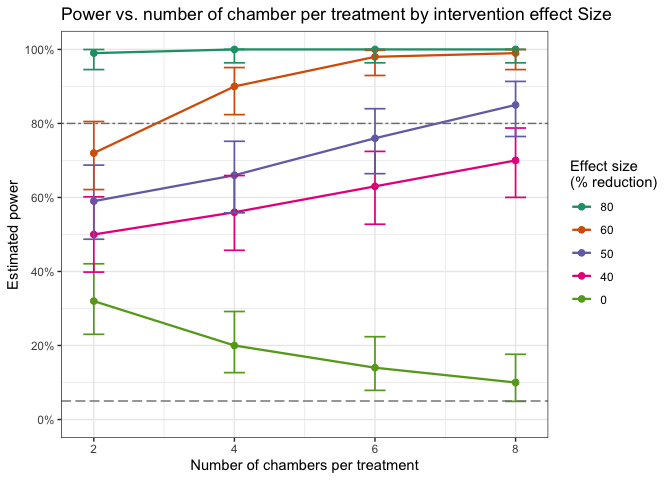
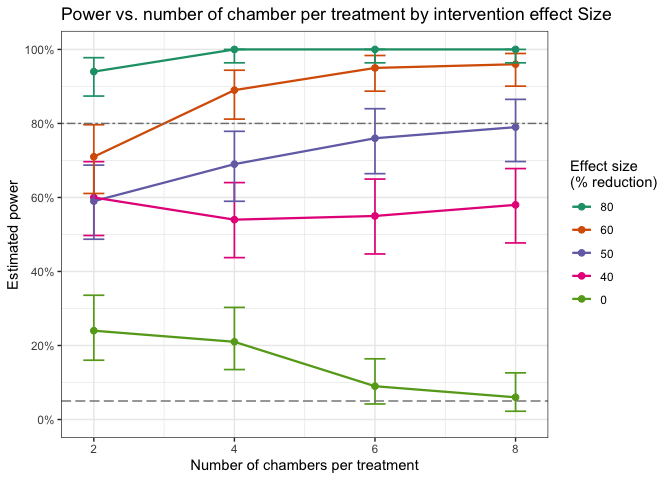
Updated README

diff --git a/README.md b/README.md
@@ -28,9 +28,9 @@ from [GitHub](https://github.com/) with:
     # First, install.packages("devtools") if not already installed in your RStudio
     # install.packages("devtools") # Run this manually if needed
     # Load "devtools" library before installing "powergene"
-    # library("remotes")
+    library("devtools")
     # Then, install the "powergene" package from github
-    remotes::install_github("akipingu/powergene")
+    devtools::install_github("akipingu/powergene")
 
     #Finally, load the "powergene" package library
     library("powergene")
@@ -114,14 +114,14 @@ chamber/replicate.
     sim.mosquitoes <- sim.mosquitoes[, c(-4,-5,-6)]
     sim.mosquitoes
     #>   replicates intvn chamber mosquito.count.fixed mosquito.count.random
-    #> 1          1     0     0-1                   43                    57
-    #> 2          2     0     0-2                   43                    80
-    #> 3          3     0     0-3                   64                    47
-    #> 4          4     0     0-4                   53                    38
-    #> 5          1     1     1-1                   12                    12
-    #> 6          2     1     1-2                   13                     8
-    #> 7          3     1     1-3                    8                    14
-    #> 8          4     1     1-4                    8                     4
+    #> 1          1     0     0-1                   58                    51
+    #> 2          2     0     0-2                   48                    40
+    #> 3          3     0     0-3                   51                    74
+    #> 4          4     0     0-4                   44                   152
+    #> 5          1     1     1-1                   10                    16
+    #> 6          2     1     1-2                    7                    12
+    #> 7          3     1     1-3                    9                     6
+    #> 8          4     1     1-4                    5                     5
 
 1.  Plot the simulated mosquitoes. This function plots a box plot with
     an option to jitter points if jitter=TURE and without jittering if
@@ -163,7 +163,7 @@ chamber/replicate.
     #output the p-values
     pvalue
     #>       pvalue 
-    #> 4.047516e-14
+    #> 7.398404e-06
 
 V. Since power cannot be estimated from a single simulation, there is a
 need to simulate multiple data sets and estimate power. Now you can
@@ -190,7 +190,7 @@ only TRUE or FALSE as explained in (ii) above.
     #print estimated power
     round(power.estimate,2)
     #>    power ci.lower ci.upper 
-    #>     1.00     0.96     1.00
+    #>     0.99     0.95     1.00
 
 1.  Now you use the function to estimate power for varied number of
     chambers per treatment, e.g., 2,4,6,8.
@@ -234,7 +234,7 @@ only TRUE or FALSE as explained in (ii) above.
     #print the power results for each number of chambers per treatment
     round(power.df,2)
     #>   n.ch.per.trt power ci.lower ci.upper
-    #> 1            2  0.95     0.89     0.98
+    #> 1            2  0.92     0.85     0.96
     #> 2            4  1.00     0.96     1.00
     #> 3            6  1.00     0.96     1.00
     #> 4            8  1.00     0.96     1.00
@@ -322,23 +322,23 @@ only TRUE or FALSE as explained in (ii) above.
     # print power estimates
     results
     #>    n.ch.per.trt intvn.effect power   ci.lower  ci.upper
-    #> 1             2          0.0  0.32 0.23021992 0.4207669
-    #> 2             4          0.0  0.20 0.12665555 0.2918427
-    #> 3             6          0.0  0.14 0.07870540 0.2237280
-    #> 4             8          0.0  0.10 0.04900469 0.1762226
-    #> 5             2          0.4  0.50 0.39832113 0.6016789
-    #> 6             4          0.4  0.56 0.45718750 0.6591640
-    #> 7             6          0.4  0.63 0.52764836 0.7244334
-    #> 8             8          0.4  0.70 0.60018532 0.7875936
+    #> 1             2          0.0  0.24 0.16022461 0.3357355
+    #> 2             4          0.0  0.21 0.13494370 0.3029154
+    #> 3             6          0.0  0.09 0.04198360 0.1639823
+    #> 4             8          0.0  0.06 0.02233489 0.1260299
+    #> 5             2          0.4  0.60 0.49720915 0.6967052
+    #> 6             4          0.4  0.54 0.43741158 0.6401566
+    #> 7             6          0.4  0.55 0.44728019 0.6496798
+    #> 8             8          0.4  0.58 0.47711920 0.6780145
     #> 9             2          0.5  0.59 0.48714420 0.6873800
-    #> 10            4          0.5  0.66 0.55846673 0.7517765
+    #> 10            4          0.5  0.69 0.58968545 0.7787112
     #> 11            6          0.5  0.76 0.66426451 0.8397754
-    #> 12            8          0.5  0.85 0.76469250 0.9135456
-    #> 13            2          0.6  0.72 0.62133300 0.8052064
-    #> 14            4          0.6  0.90 0.82377740 0.9509953
-    #> 15            6          0.6  0.98 0.92961607 0.9975687
-    #> 16            8          0.6  0.99 0.94554061 0.9997469
-    #> 17            2          0.8  0.99 0.94554061 0.9997469
+    #> 12            8          0.5  0.79 0.69708462 0.8650563
+    #> 13            2          0.6  0.71 0.61073404 0.7964258
+    #> 14            4          0.6  0.89 0.81169887 0.9437930
+    #> 15            6          0.6  0.95 0.88716509 0.9835681
+    #> 16            8          0.6  0.96 0.90074284 0.9889955
+    #> 17            2          0.8  0.94 0.87397007 0.9776651
     #> 18            4          0.8  1.00 0.96378331 1.0000000
     #> 19            6          0.8  1.00 0.96378331 1.0000000
     #> 20            8          0.8  1.00 0.96378331 1.0000000
